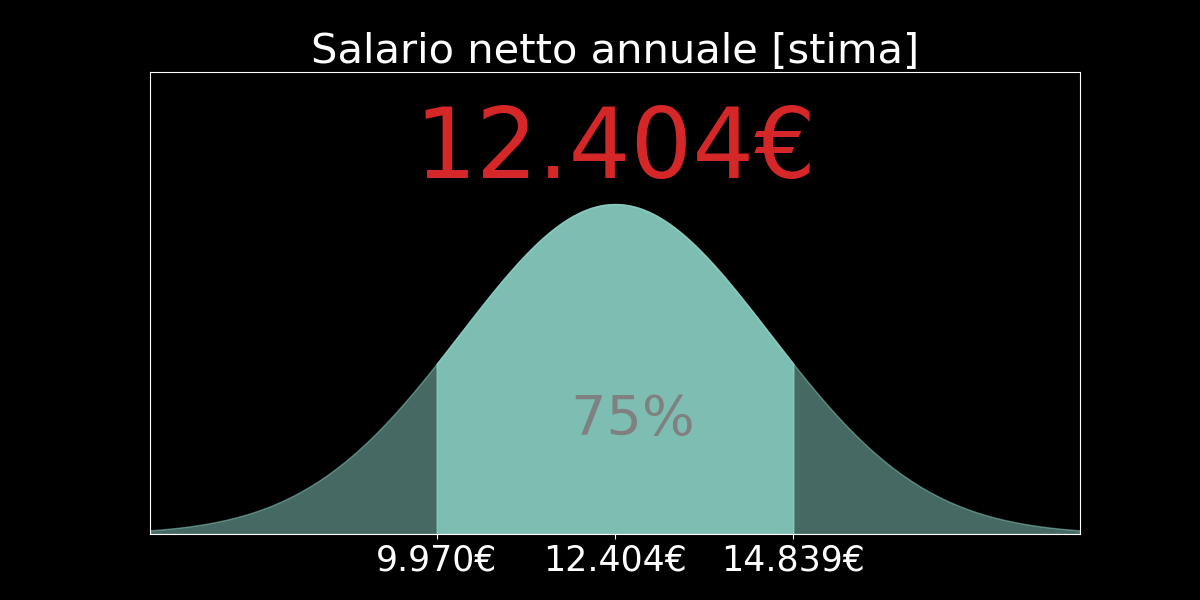
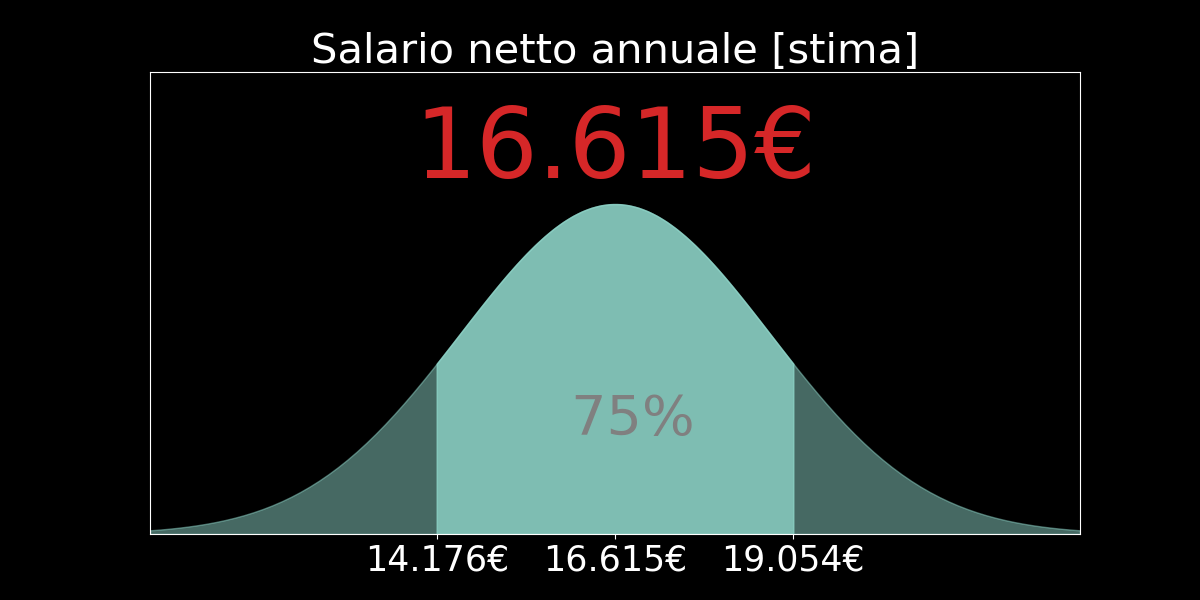
minor

diff --git a/app/view/index.html b/app/view/index.html
@@ -7,6 +7,7 @@
   <link rel='stylesheet' href='./static/style.css'>
   <script src='./static/client.js'></script>
   <meta name="viewport" content="width=device-width, initial-scale=1">
+  <link rel="icon" type="image/png" href="./images/background1.png"/>
 </head>
 
 

diff --git a/app/main.py b/app/main.py
@@ -25,6 +25,7 @@ app.mount("/images", StaticFiles(directory=path+"images"), name="images")
 
 # load model
 model = pickle.load(open(path + "../models/{}/model.p".format(MODEL),"rb"))
+model_lightgbm = pickle.load(open(path + "../models/lightgbm/model.p","rb"))
 features = pickle.load(open(path + "../models/{}/features.p".format(MODEL),"rb"))
 preprocessor = pickle.load(open(path + "../models/{}/cat_encoder.p".format(MODEL),"rb"))
 catfeat_map = dict(
@@ -67,6 +68,11 @@ async def predict(request):
         mu,sigma = model.predict_parameters(x)
         mu = mu.item()
         sigma = sigma.item()
+
+        # tmp: use lightgbm prediction for mean
+        pred = model_lightgbm.predict(x).item()
+        mu = pred / model.y_unit
+
         fig,lower,upper = show_normal(mu,sigma,y_unit = model.y_unit)
         fig.savefig(path + "images/distribution.png",facecolor="black")
         pred = mu * model.y_unit
